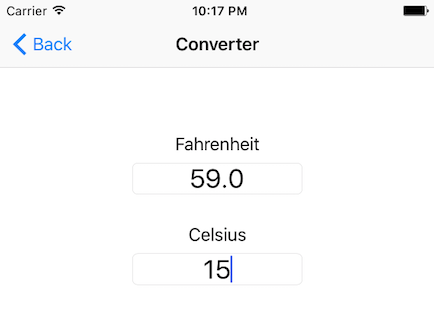
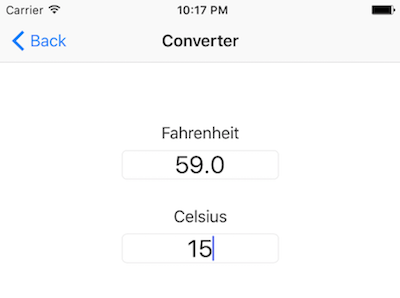
endret bildestørrelser og lagt til touchid

diff --git a/README.md b/README.md
@@ -207,14 +207,20 @@ motionManager.startAccelerometerUpdates(to: OperationQueue.main) {(accelerometer
 
 Tips: Sjekk hva som finnes i accelerometerData med ```Option + musklikk```. Magnetometer kan brukes på tilsvarende måte.
 
-#### Oppgave 6. ImageViewController
+#### Oppgave 6. TouchIDViewController
+Implementer en View Controller som autentiserer fingeravtrykk med Touch ID.
+
+![TouchIDViewControllerExample](https://github.com/bekk/iOS-Lynkurs/blob/master/Assets/TouchIDViewControllerExample.png "TouchIDViewControllerExample")
+Se [TouchIDViewController](https://github.com/bekk/iOS-Lynkurs/blob/master/Lynkurs-03-App/Lynkurs-03-App/TouchIDViewController.swift) for løsningsforslag.
+
+#### Oppgave 7. ImageViewController
 **TODO:** Hent og vis bilder lagret på simulator eller enhet.
 
-#### Oppgave 7. CameraViewController
+#### Oppgave 8. CameraViewController
 **TODO:** Ta bilder med kamera og bruk dem i App.
 Obs: fungerer ikke på Simulator, så krever at man kan teste på enhet.
 
-#### Oppgave 8. ListViewController
+#### Oppgave 9. ListViewController
 **TODO:** Lag en liste hvor man kan legge til og slette elementer.
 
 **Tips:**
